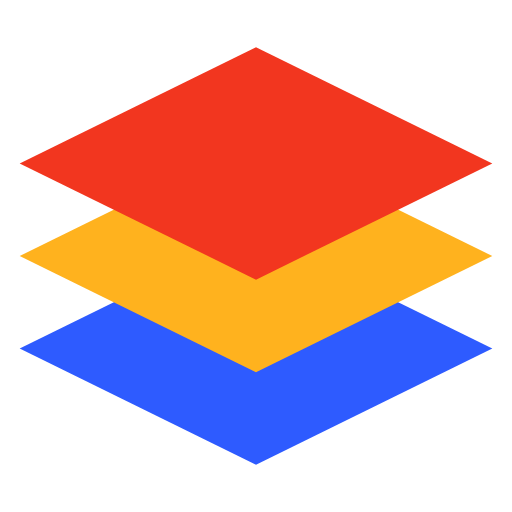
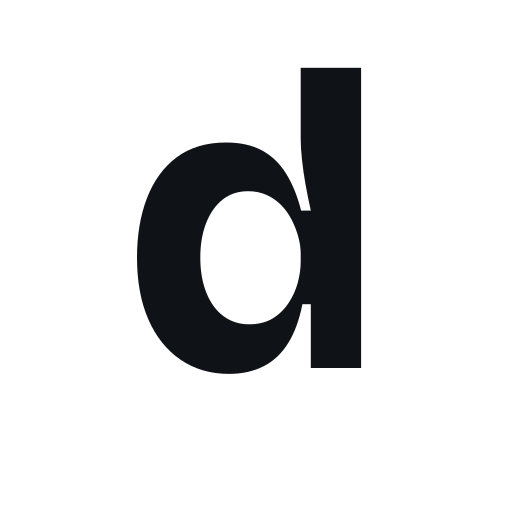
Brand: the name alone everywhere; the plate mark is retired
Nav, error page, footer wordmark, statement label, ending card, share images and icons
(favicon, home-screen, manifest) now carry only the word decignal or its letter d.

diff --git a/app/styles/chrome.css b/app/styles/chrome.css
@@ -2,24 +2,9 @@
    and the chapter pictures (components/Nav, NavPeek, CtaPill, PhoneDock, ChapterArt, ui/Logo). Every fixed layer takes its z from the token scale. */
 
 /* ---------------- Logo ---------------- */
-.logo .logo-mark {
-  width: round(calc(var(--logo, 26px) * 0.95), 1px);
-  height: round(calc(var(--logo, 26px) * 0.95), 1px);
-  overflow: visible;
-  transform: translateY(round(calc(var(--logo, 26px) * 0.12), 1px));
-}
-.logo .logo-mark path { transition: transform var(--dur-4) var(--ease); }
-@media (hover: hover) {
-  .logo:hover .lm-1 { transform: translateY(-3px); }
-  .logo:hover .lm-3 { transform: translateY(3px); }
-}
 .logo-word {
   display: inline-block;
-  max-width: 6em;
-  margin-left: 10px;
-  overflow-x: clip;
   font-size: var(--logo, 26px);
-  transition: max-width var(--dur-3) var(--ease), margin var(--dur-3) var(--ease), opacity var(--dur-2) var(--ease);
 }
 
 /* ---------------- Skip link (styles in infra.css): on the page grid's left edge ---------------- */
@@ -97,10 +82,9 @@ a.skip-link { left: var(--edge); }
 .nav-readout-caret { flex: none; width: 11px; height: 11px; fill: none; stroke: var(--color-ink-soft); stroke-width: 1.6; stroke-linecap: round; stroke-linejoin: round; transition: transform var(--dur-3) var(--ease); }
 .nav-readout[aria-expanded="true"] .nav-readout-caret { transform: rotate(180deg); }
 .nav-readout:hover .nav-readout-caret { stroke: var(--color-ink); }
-/* Phones (NAV-13): in the story the compact bar folds the wordmark to the mark and reads the chapter
+/* Phones (NAV-13): in the story the compact bar keeps the wordmark and reads the chapter
    in sentence case; tapping it opens the menu's chapter list. Past the story the dock names sections. */
 @media (max-width: 639px) {
-  .nav-pill[data-mini] .logo-word { max-width: 0; margin-left: 0; opacity: 0; }
   .nav-readout[data-mode="story"] { gap: 6px; font-family: var(--font-sans); font-size: 13px; font-weight: 600; letter-spacing: -0.01em; text-transform: none; }
   .nav-readout[data-mode="story"][data-show] { margin-left: 2px; }
   .nav-readout-rule, .nav-readout-caret { display: none; }
@@ -165,7 +149,7 @@ a.skip-link { left: var(--edge); }
   .nav-cta-icon, .nav-pill[data-compact] .nav-cta-icon { width: 28px; height: 28px; }
   .nav-logo { padding-inline: 2px 4px; }
 }
-/* Phones keep one bar height when it goes compact (the logo folds and the readout still animate). The
+/* Phones keep one bar height when it goes compact (the readout still animates). The
    bar shrinking by 8px resized its glass, and a phone re-rastered the pill and the CTA, with their
    blurred rims, on every frame of the 320 ms change: a stutter each time the page left the top
    (raster 330 to 79 ms/s on the probe's sway, 2026-10-14, the user's choice). Tablets keep it too: their
@@ -439,7 +423,7 @@ html.ready .nav-pill > .nav-cta { animation: navItem var(--dur-4) var(--ease) va
 
 @media (prefers-reduced-motion: reduce) {
   html.ready .nav-pill, html.ready .nav-links a, html.ready .nav-pill > .nav-cta, .nav-roll, .nav-peek[data-open] .nav-peek-pane[data-on] [style*="--k"] { animation: none; }
-  .nav-shell, .nav-pill, .nav-readout, .nav-peek, .nav-peek-body, .nav-peek-pane, .nav-peek-caret, .nav-links-hl[data-glide], .logo-word,
+  .nav-shell, .nav-pill, .nav-readout, .nav-peek, .nav-peek-body, .nav-peek-pane, .nav-peek-caret, .nav-links-hl[data-glide],
   .nav-menu, .nav-menu[data-open], .nav-menu-group, .nav-menu[data-open] .nav-menu-group { transition-duration: 0ms; transition-delay: 0ms; }
   .cta-pill, .cta-pill[data-show] { translate: -50% 0; transition: opacity var(--dur-1) linear, visibility 0s; }
   .phone-dock, .phone-dock[data-show] { translate: 0 0; transition: opacity var(--dur-1) linear, visibility 0s; }

diff --git a/app/apple-icon.tsx b/app/apple-icon.tsx
@@ -1,11 +1,14 @@
+import { readFile } from "node:fs/promises";
+import { join } from "node:path";
 import { ImageResponse } from "next/og";
-import { BRAND, LOGO_ICON_VIEWBOX, LOGO_PLATES } from "@/lib/site";
+import { BRAND } from "@/lib/site";
 
 export const size = { width: 180, height: 180 };
 export const contentType = "image/png";
 
-/** Home-screen icon: the logo mark on a solid white tile (iOS fills transparency with black). */
-export default function AppleIcon() {
+/** Home-screen icon: the name's first letter on a solid white tile (iOS fills transparency with black). */
+export default async function AppleIcon() {
+  const display700 = await readFile(join(process.cwd(), "public/fonts/bricolage-grotesque-latin-700-normal.woff"));
   return new ImageResponse(
     (
       <div
@@ -15,16 +18,18 @@ export default function AppleIcon() {
           display: "flex",
           alignItems: "center",
           justifyContent: "center",
+          paddingBottom: 18,
           background: BRAND.surface,
+          color: BRAND.ink,
+          fontFamily: "Bricolage",
+          fontWeight: 700,
+          fontSize: 148,
+          lineHeight: 1,
         }}
       >
-        <svg width={120} height={120} viewBox={LOGO_ICON_VIEWBOX}>
-          {LOGO_PLATES.map((p) => (
-            <path key={p.d} d={p.d} fill={p.fill} />
-          ))}
-        </svg>
+        d
       </div>
     ),
-    size,
+    { ...size, fonts: [{ name: "Bricolage", data: display700, weight: 700 }] },
   );
 }

diff --git a/app/solutions/[slug]/opengraph-image.tsx b/app/solutions/[slug]/opengraph-image.tsx
@@ -2,7 +2,7 @@ import { readFile } from "node:fs/promises";
 import { join } from "node:path";
 import { ImageResponse } from "next/og";
 import { AREA_SLUGS, appsOf, areaBySlug, areaEyebrow } from "@/lib/areas";
-import { BRAND, LOGO_ICON_VIEWBOX, LOGO_PLATES, SITE_NAME } from "@/lib/site";
+import { BRAND, SITE_NAME } from "@/lib/site";
 
 export const alt = `${SITE_NAME}: a business function, its headline and its three application examples`;
 export const size = { width: 1200, height: 630 };
@@ -52,12 +52,7 @@ export default async function Image({ params }: { params: Promise<{ slug: string
         }}
       >
         <div style={{ display: "flex", alignItems: "center", justifyContent: "space-between" }}>
-          <div style={{ display: "flex", alignItems: "center", gap: 14, fontSize: 40, fontWeight: 600, letterSpacing: -0.6 }}>
-            <svg width={50} height={50} viewBox={LOGO_ICON_VIEWBOX}>
-              {LOGO_PLATES.map((p) => (
-                <path key={p.d} d={p.d} fill={p.fill} />
-              ))}
-            </svg>
+          <div style={{ display: "flex", alignItems: "center", fontSize: 40, fontWeight: 600, letterSpacing: -0.6 }}>
             decignal
           </div>
           <div style={{ display: "flex", alignItems: "center", gap: 12, fontFamily: "Figtree", fontSize: 24, fontWeight: 600, color: BRAND.inkSoft }}>

diff --git a/components/ui/Logo.tsx b/components/ui/Logo.tsx
@@ -1,22 +1,9 @@
 import type { CSSProperties } from "react";
 
-/** Three stacked plates: the systems, the context, the signal on top. */
-export function LogoMark({ className = "" }: { className?: string }) {
-  return (
-    <svg viewBox="0 0 32 32" className={`logo-mark ${className}`} aria-hidden>
-      <path className="lm-3" d="M16 21.5 4 15.6l12-5.9 12 5.9z" fill="var(--color-cobalt)" />
-      <path className="lm-2" d="M16 16.8 4 10.9 16 5l12 5.9z" fill="var(--color-saffron)" />
-      <path className="lm-1" d="M16 12.1 4 6.2 16 .3l12 5.9z" fill="var(--color-signal)" />
-    </svg>
-  );
-}
-
-/** Mark and wordmark. The wordmark sits in .logo-word so the compact phone nav can fold it away
- *  (app/styles/chrome.css); sizes follow --logo. */
+/** The wordmark: the name alone (the plate mark is retired while the new identity is drawn). Sizes follow --logo. */
 export function Logo({ size = 26 }: { size?: number }) {
   return (
     <span className="logo inline-flex items-center" style={{ "--logo": `${size}px` } as CSSProperties}>
-      <LogoMark className="shrink-0" />
       <span className="logo-word font-serif leading-none tracking-[-0.019em]">decignal</span>
     </span>
   );

diff --git a/app/opengraph-image.tsx b/app/opengraph-image.tsx
@@ -1,7 +1,7 @@
 import { readFile } from "node:fs/promises";
 import { join } from "node:path";
 import { ImageResponse } from "next/og";
-import { BRAND, HERO_LINES, LOGO_ICON_VIEWBOX, LOGO_PLATES, OG_FOOTER, SHARE_IMAGE_ALT } from "@/lib/site";
+import { BRAND, HERO_LINES, OG_FOOTER, SHARE_IMAGE_ALT } from "@/lib/site";
 
 export const alt = SHARE_IMAGE_ALT;
 export const size = { width: 1200, height: 630 };
@@ -32,12 +32,7 @@ export default async function OpengraphImage() {
           fontFamily: "Bricolage",
         }}
       >
-        <div style={{ display: "flex", alignItems: "center", gap: 14, fontSize: 40, fontWeight: 600, letterSpacing: -0.6 }}>
-          <svg width={50} height={50} viewBox={LOGO_ICON_VIEWBOX}>
-            {LOGO_PLATES.map((p) => (
-              <path key={p.d} d={p.d} fill={p.fill} />
-            ))}
-          </svg>
+        <div style={{ display: "flex", alignItems: "center", fontSize: 40, fontWeight: 600, letterSpacing: -0.6 }}>
           decignal
         </div>
         <div

diff --git a/components/three/faces.ts b/components/three/faces.ts
@@ -820,25 +820,10 @@ export function drawHandArt(canvas: HTMLCanvasElement, spec: FaceSpec, p: number
 
 /** The ending: the lead magnet, standing where the six systems meet. */
 function final(c: C) {
-  // Logo mark
-  const marks: [string, number][] = [
-    [TINTS.cobalt, 70],
-    [TINTS.saffron, 40],
-    [COLORS.signal, 10],
-  ];
-  marks.forEach(([col, y]) => {
-    c.fillStyle = col;
-    c.beginPath();
-    c.moveTo(150, 90 + y);
-    c.lineTo(90, 120 + y);
-    c.lineTo(150, 150 + y);
-    c.lineTo(210, 120 + y);
-    c.closePath();
-    c.fill();
-  });
+  // The name alone
   font(c, 80, 650);
   c.fillStyle = INK;
-  c.fillText("decignal", 240, 206);
+  c.fillText("decignal", 90, 206);
   // The six systems that feed it, one dot each, as the threads arrive on the ground around it.
   [TINTS.cobalt, TINTS.violet, TINTS.emerald, TINTS.saffron, TINTS.tangerine, TINTS.pink].forEach((t, i) => dot(c, FACE_W - 110 - (5 - i) * 56, 178, 17, t));
   title(c, FACES.final.title, 440, 136, INK, FACE_W - 180);

diff --git a/components/sections/Statement.tsx b/components/sections/Statement.tsx
@@ -11,7 +11,6 @@ import SectionTitle from "../ui/SectionTitle";
 import { Compass } from "lucide-react";
 import { AREAS, appsOf } from "@/lib/areas";
 import { toneVars } from "@/lib/tone";
-import { LogoMark } from "../ui/Logo";
 import { LiquidShapes } from "../ui/LiquidShapes";
 import decide from "@/assets/photos/decide.jpg";
 
@@ -287,9 +286,6 @@ export function Statement() {
         <div className="page-wrap">
           {/* The label is the section's heading; the sentences under it are a statement, not a headline. */}
           <h2 id="stmt-title" className="t-label section-title-label stmt-label">
-            <span className="section-title-icon" aria-hidden>
-              <LogoMark className="stmt-mark" />
-            </span>
             {STATEMENT.eyebrow}
           </h2>
           <div className="stmt-head">

diff --git a/components/sections/Footer.tsx b/components/sections/Footer.tsx
@@ -13,7 +13,6 @@ import { CONTACT_EMAIL } from "@/lib/site";
 const EMAIL = CONTACT_EMAIL;
 import { jumpTo } from "@/lib/jump";
 import { toneVars } from "@/lib/tone";
-import { LogoMark } from "../ui/Logo";
 import { Arrow } from "../ui/Arrow";
 import { SectionLink } from "../ui/SectionLink";
 import { AuditLink } from "../CtaPill";
@@ -174,9 +173,6 @@ export function Footer() {
 
       {/* The wordmark, set across the full width */}
       <div ref={word} className="footer-wordmark" aria-hidden>
-        <span data-letter className="inline-block">
-          <LogoMark className="footer-wordmark-mark" />
-        </span>
         <span className="footer-wordmark-word">
           {"decignal".split("").map((ch, i) => (
             <span key={i} data-letter className="inline-block">

diff --git a/app/styles/editorial.css b/app/styles/editorial.css
@@ -386,7 +386,6 @@
 /* The wordmark, set across the full width; a logo, not a heading. 20vw so the word always fits the
    width; the token caps it on very wide screens. */
 .footer-wordmark { display: flex; align-items: flex-end; justify-content: center; gap: max(1.5vw, 12px); overflow: hidden; margin-top: 40px; padding: 1vw 0 4.5vw; --mark: min(20vw, var(--wordmark)); }
-.footer-wordmark-mark { display: block; width: calc(var(--mark) * 0.65); height: calc(var(--mark) * 0.65); }
 .footer-wordmark-word { display: flex; font-family: var(--font-heading); font-size: var(--mark); line-height: 0.9; color: #fff; font-weight: 500; letter-spacing: -0.014em; }
 
 .footer-motif .footer-thread { stroke-dasharray: 1; stroke-dashoffset: 0; stroke: rgb(255 255 255 / 0.85); }

diff --git a/lib/site.ts b/lib/site.ts
@@ -49,14 +49,6 @@ export const BRAND = {
   signal: "#F2361F",
 } as const;
 
-/** The three plates of the logo mark (components/ui/Logo.tsx) in paint order, bottom plate first, 32 unit box. */
-export const LOGO_PLATES = [
-  { d: "M16 21.5 4 15.6l12-5.9 12 5.9z", fill: BRAND.cobalt },
-  { d: "M16 16.8 4 10.9 16 5l12 5.9z", fill: BRAND.saffron },
-  { d: "M16 12.1 4 6.2 16 .3l12 5.9z", fill: BRAND.signal },
-] as const;
-/** viewBox that centres the mark in a square with a little air. */
-export const LOGO_ICON_VIEWBOX = "3 -2.1 26 26";
 
 /** The site's share card, drawn by app/opengraph-image.tsx. */
 export const SHARE_IMAGE_ALT = `${SITE_NAME}: ${HERO_LINES.join(" ")} ${OG_FOOTER}`;

diff --git a/app/styles/primitives.css b/app/styles/primitives.css
@@ -230,5 +230,3 @@
 /* Section label icons: a small solid disc in ink holding the section's line icon. */
 .section-title-icon { display: grid; place-items: center; flex: none; width: 20px; height: 20px; margin-left: -5px; border-radius: 50%; color: #fff; background: var(--color-ink); }
 .night-panel .section-title-icon, .band:is([data-band="night"], [data-band="cobalt"], [data-band="violet"]) .section-title-icon { color: var(--color-night); background: #fff; }
-.section-title-icon .stmt-mark { width: 14px; height: 14px; transform: translateY(1px); }
-.section-title-icon:has(.stmt-mark) { background: var(--color-surface); box-shadow: inset 0 0 0 1px var(--color-line); }

diff --git a/app/manifest.ts b/app/manifest.ts
@@ -11,7 +11,6 @@ export default function manifest(): MetadataRoute.Manifest {
     background_color: BRAND.bg,
     theme_color: BRAND.bg,
     icons: [
-      { src: "/icon.svg", sizes: "any", type: "image/svg+xml" },
       { src: "/icon-192.png", sizes: "192x192", type: "image/png" },
       { src: "/icon-512.png", sizes: "512x512", type: "image/png" },
     ],
